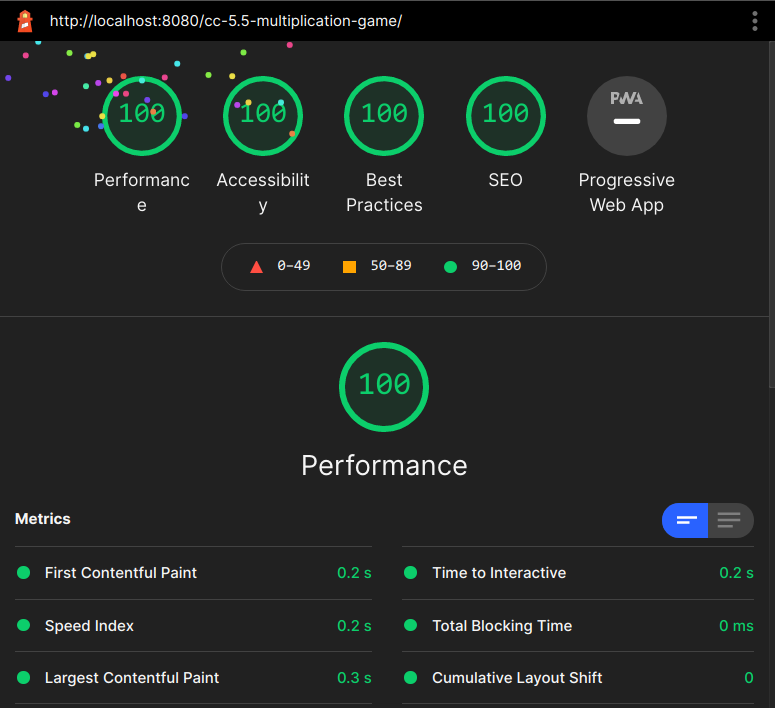
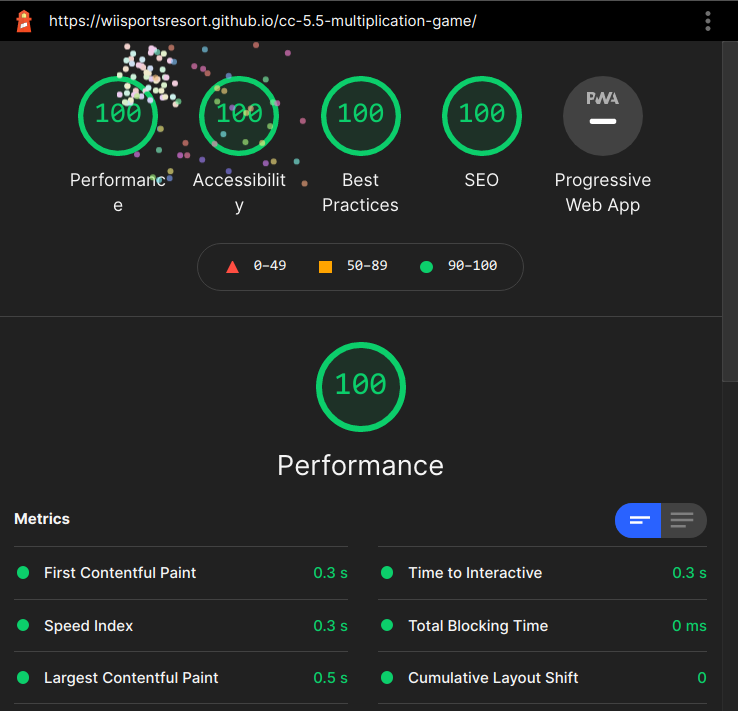
update readme and photos

diff --git a/README.md b/README.md
@@ -2,9 +2,11 @@
 
 very cool project
 
-I used Svelte and Snowpack instead of React and webpack as I normally did before.
+go to <https://wiisportsresort.github.io/cc-5.5-multiplication-game> for live demo
 
-Really liking Svelte for the small runtime size, simpler components, among others. Snowpack is just super fast with minimal configuration, both in development and in production.
+I used Svelte and Snowpack instead of React and webpack as I normally did before
+
+Really liking Svelte for the small runtime size, simpler components, among others. Snowpack is just super fast with minimal configuration, both in development and in production
 
 I might leave the church of React become a Svelte guy
 
@@ -12,9 +14,13 @@ Perfect Lighthouse score
 
 ![Lighthouse Score](assets/lighthouse.png)
 
-Size and performance
+Size and performance (no cache)
 
-![Network Devtools](assets/speed.png)
+![Network Devtools](assets/no-cache.png)
+
+with cache
+
+![Network Devtools](assets/with-cache.png)
 
 ## extra stuff (why not)
 
